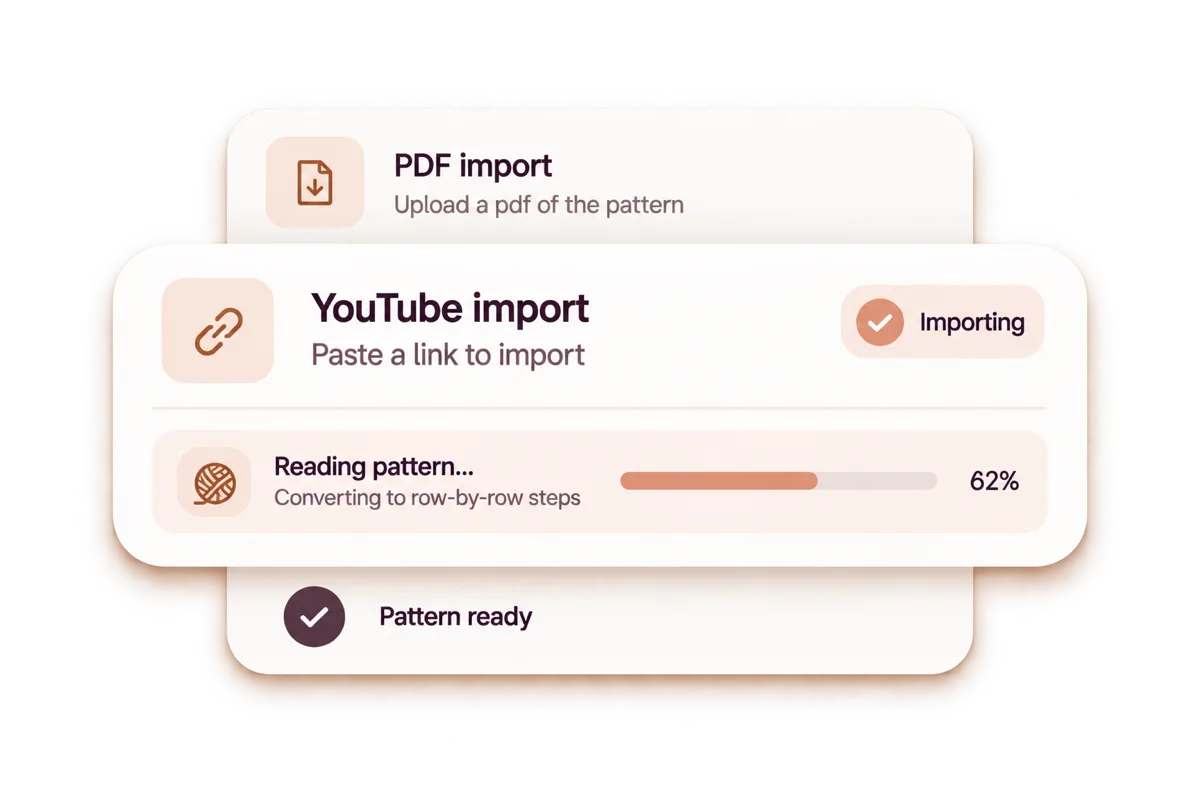
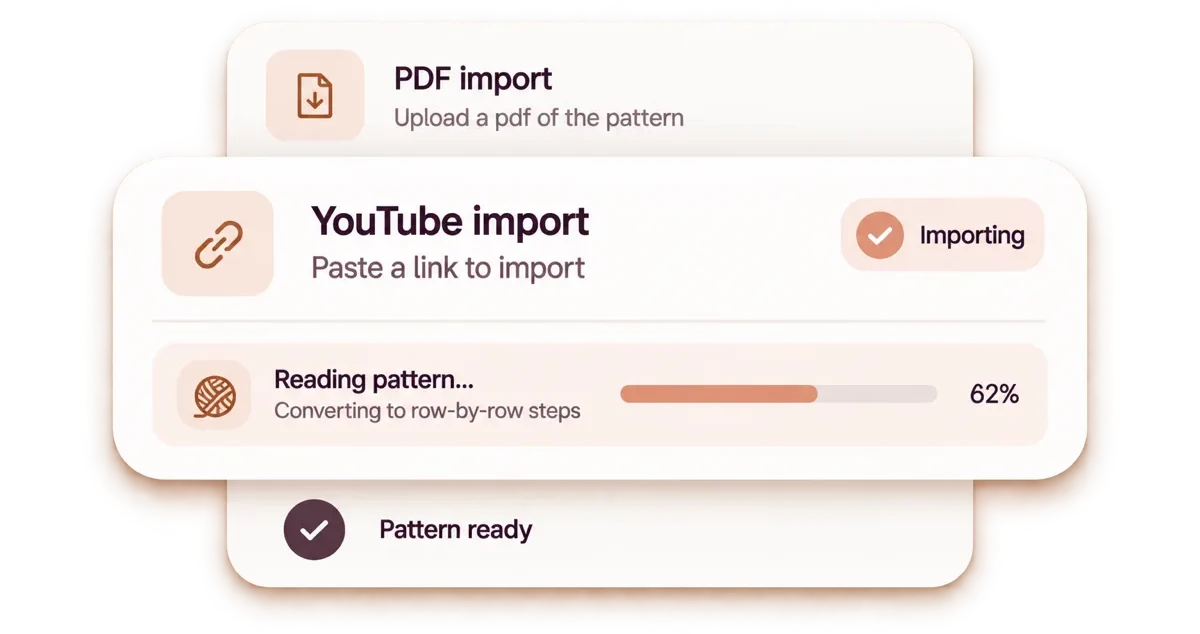
fix(site): anchor feature art to the top, trim the two padded files
The empty band above Pattern Import and On Your Lock Screen had two
sources, and only fixing both removes it.

The files carried their own vertical padding — the Lock Screen widget had
169px of transparent nothing above it, 21% of its height. Trimmed, full
width kept so neither composition moves.

But trimming alone only converts the image's internal emptiness into
frame emptiness: a narrower image in the same frame leaves the same slack,
just outside the picture rather than inside it. What decided where that
slack landed was object-bottom, which sent every pixel of it to the TOP.

object-top puts it BELOW the image instead, where it merges with the gap
that already separates art from heading and reads as ordinary spacing
rather than a defect.

Desktop is unaffected: the frame there is far wider than the art, so the
art is height-limited, fills the frame vertically and has no slack to
place.

diff --git a/src/components/FeatureCard.tsx b/src/components/FeatureCard.tsx
@@ -62,25 +62,28 @@ export default function FeatureCard({
         style={ratio ? { aspectRatio: ratio } : undefined}
       >
         {/*
-          object-CONTAIN, not cover. Cover fills the frame and throws away
-          whatever will not fit, which cropped the tops and bottoms off the art
-          on a phone — the yarn scanner lost its ball band, the import card lost
-          its progress row. Contain scales the whole image down to fit instead,
-          so nothing is lost at any width.
+          object-CONTAIN, not cover: cover fills the frame and throws away what
+        will not fit, which cropped the tops and bottoms off the art. Contain
+        scales the whole image down, so nothing is lost at any width.
 
-          object-bottom stays. The art in this set is not a consistent shape —
-          the Lock Screen render is 1864x1049 while the rest are 1536x1024 — and
-          these images all have their subject at the BOTTOM of the canvas
-          (phones cropped at the lower edge, the widget resting low). Anchoring
-          there lines the subjects up across all four cards regardless of shape,
-          which matters as much with contain as it did with cover: without it,
-          a shorter image would float in the middle of its frame while the
-          others sat on the floor.
+        object-TOP, not bottom. This is the fix for the empty band above the
+        Pattern Import and Lock Screen cards. Those two are wider than the
+        frame, so contain leaves slack in the height — and anchoring to the
+        bottom sent every pixel of that slack to the TOP, where it read as a
+        mysterious gap. Anchored to the top instead, the same slack falls
+        BELOW the image, where it merges with the space that already separates
+        art from heading and reads as ordinary spacing.
+
+        The two files were also trimmed of their own vertical padding (the
+        Lock Screen widget carried 169px of transparent nothing above it, 21%
+        of its height). Trimming alone was not enough: it only converts the
+        image's internal emptiness into frame emptiness. The anchor is what
+        decides whether that emptiness is a defect or a margin.
         */}
         <img
           src={image}
           alt={alt}
-          className="h-full w-full max-w-full rounded-[14px] object-contain object-bottom"
+          className="h-full w-full max-w-full rounded-[14px] object-contain object-top"
           loading="lazy"
         />
       </div>
